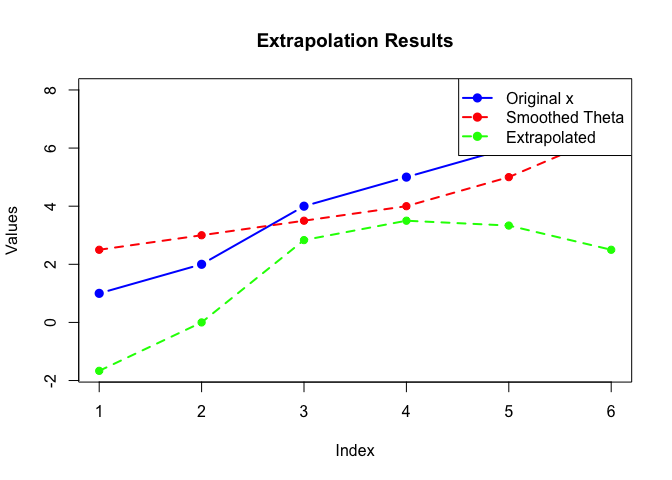
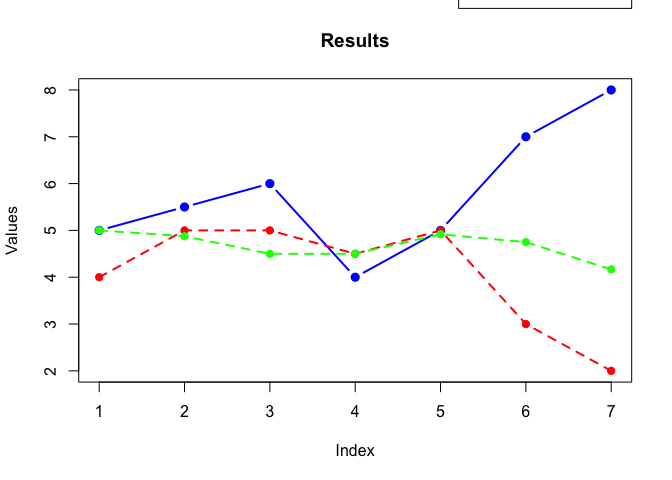
update

diff --git a/README.md b/README.md
@@ -89,19 +89,25 @@ Creates a plot comparing the original signal (`x`), the denoised signal
 library(NaturalSpline)
 
 # Input signal
-x <- c(1, 2, 4, 5, 6, 8)
-theta <- c(2.5, 3, 3.5, 4, 5, 6.5)
+x <- c( 5, 5.5, 6, 4, 5, 7, 8)
+theta <- c( 4, 5, 5, 4.5, 5, 3, 2)
 m <- 3
 
 # Perform compact extrapolation
 left_result <- extrapolate_compact(x, theta, m, side = "left")
 right_result <- extrapolate_compact(x, theta, m, side = "right")
 print(left_result)
-#> [1] -1.666667  0.000000  2.833333
+#> [1] 5.000 4.875 4.500
 print(right_result)
-#> [1] 3.500000 3.333333 2.500000
+#> [1] 4.916667 4.750000 4.166667
 
 # Visualize results
+n <- length(x)
+index <- seq(1, n)
+result <- theta
+result[1:m] <- left_result[1:m]
+result[(n-m+1):n] <- right_result[1:m]
+
 plot_extrapolation(x, theta, m)
 ```
 
@@ -119,19 +125,15 @@ pak::pak("zhoumo2716/NaturalSpline")
 #> 
 #> → Will update 1 package.
 #> → Will download 1 package with unknown size.
-#> + NaturalSpline 0.0.0.9000 → 0.0.0.9000 👷🏾♂🔧 ⬇ (GitHub: e7e5e90)
+#> + NaturalSpline 0.0.0.9000 → 0.0.0.9000 👷🏻🔧 ⬇ (GitHub: 6679b0a)
 #> 
 #> ! NaturalSpline is loaded in the current R session, you probably need to
 #> restart R after the installation.
 #> 
 #> ℹ Getting 1 pkg with unknown size
-#> ✔ Got NaturalSpline 0.0.0.9000 (source) (47.78 kB)
-#> ℹ Packaging NaturalSpline 0.0.0.9000
-#> ✔ Packaged NaturalSpline 0.0.0.9000 (440ms)
-#> ℹ Building NaturalSpline 0.0.0.9000
-#> ✔ Built NaturalSpline 0.0.0.9000 (772ms)
-#> ✔ Installed NaturalSpline 0.0.0.9000 (github::zhoumo2716/NaturalSpline@e7e5e90) (19ms)
-#> ✔ 1 pkg: upd 1, dld 1 (NA B) [6s]
+#> ✔ Cached copy of NaturalSpline 0.0.0.9000 (source) is the latest build
+#> ✔ Installed NaturalSpline 0.0.0.9000 (github::zhoumo2716/NaturalSpline@6679b0a) (20ms)
+#> ✔ 1 pkg: upd 1 [3.1s]
 ```
 
 Or with `devtools`
@@ -139,14 +141,14 @@ Or with `devtools`
 ``` r
 # Install the devtools package if not already installed
 install.packages("devtools")
-#> Installing package into '/private/var/folders/74/4fh__5010_l3tp8fpsft2ft00000gn/T/RtmpBLvSCQ/temp_libpatha9355e39ce80'
+#> Installing package into '/private/var/folders/74/4fh__5010_l3tp8fpsft2ft00000gn/T/Rtmp0KgocC/temp_libpath6c3d4723a264'
 #> (as 'lib' is unspecified)
 #> 
 #> The downloaded binary packages are in
-#>  /var/folders/74/4fh__5010_l3tp8fpsft2ft00000gn/T//RtmpdnHYTf/downloaded_packages
+#>  /var/folders/74/4fh__5010_l3tp8fpsft2ft00000gn/T//RtmpB7KZH0/downloaded_packages
 
 # Install the NaturalSpline package from GitHub
 devtools::install_github("zhoumo2716/NaturalSpline")
-#> Skipping install of 'NaturalSpline' from a github remote, the SHA1 (e7e5e901) has not changed since last install.
+#> Skipping install of 'NaturalSpline' from a github remote, the SHA1 (6679b0a4) has not changed since last install.
 #>   Use `force = TRUE` to force installation
 ```
